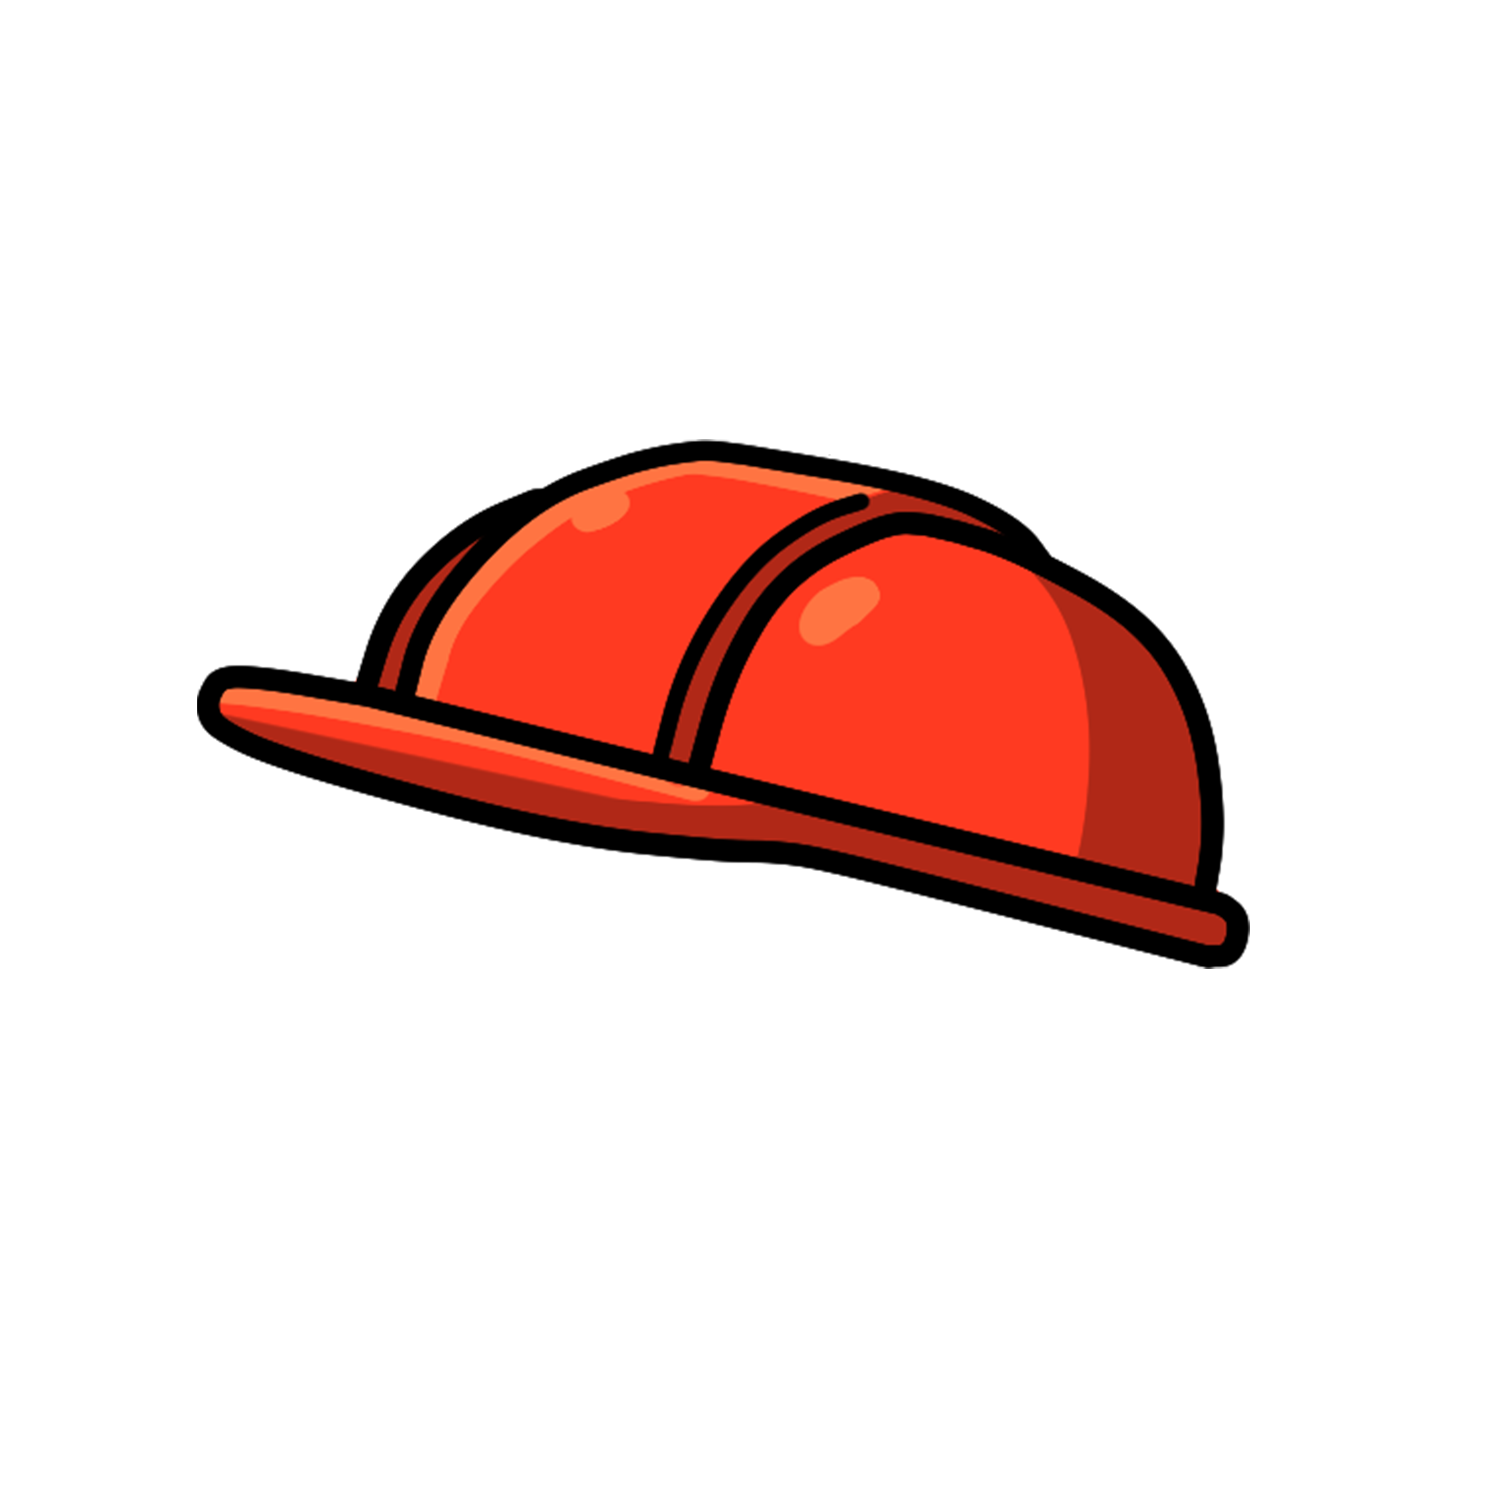
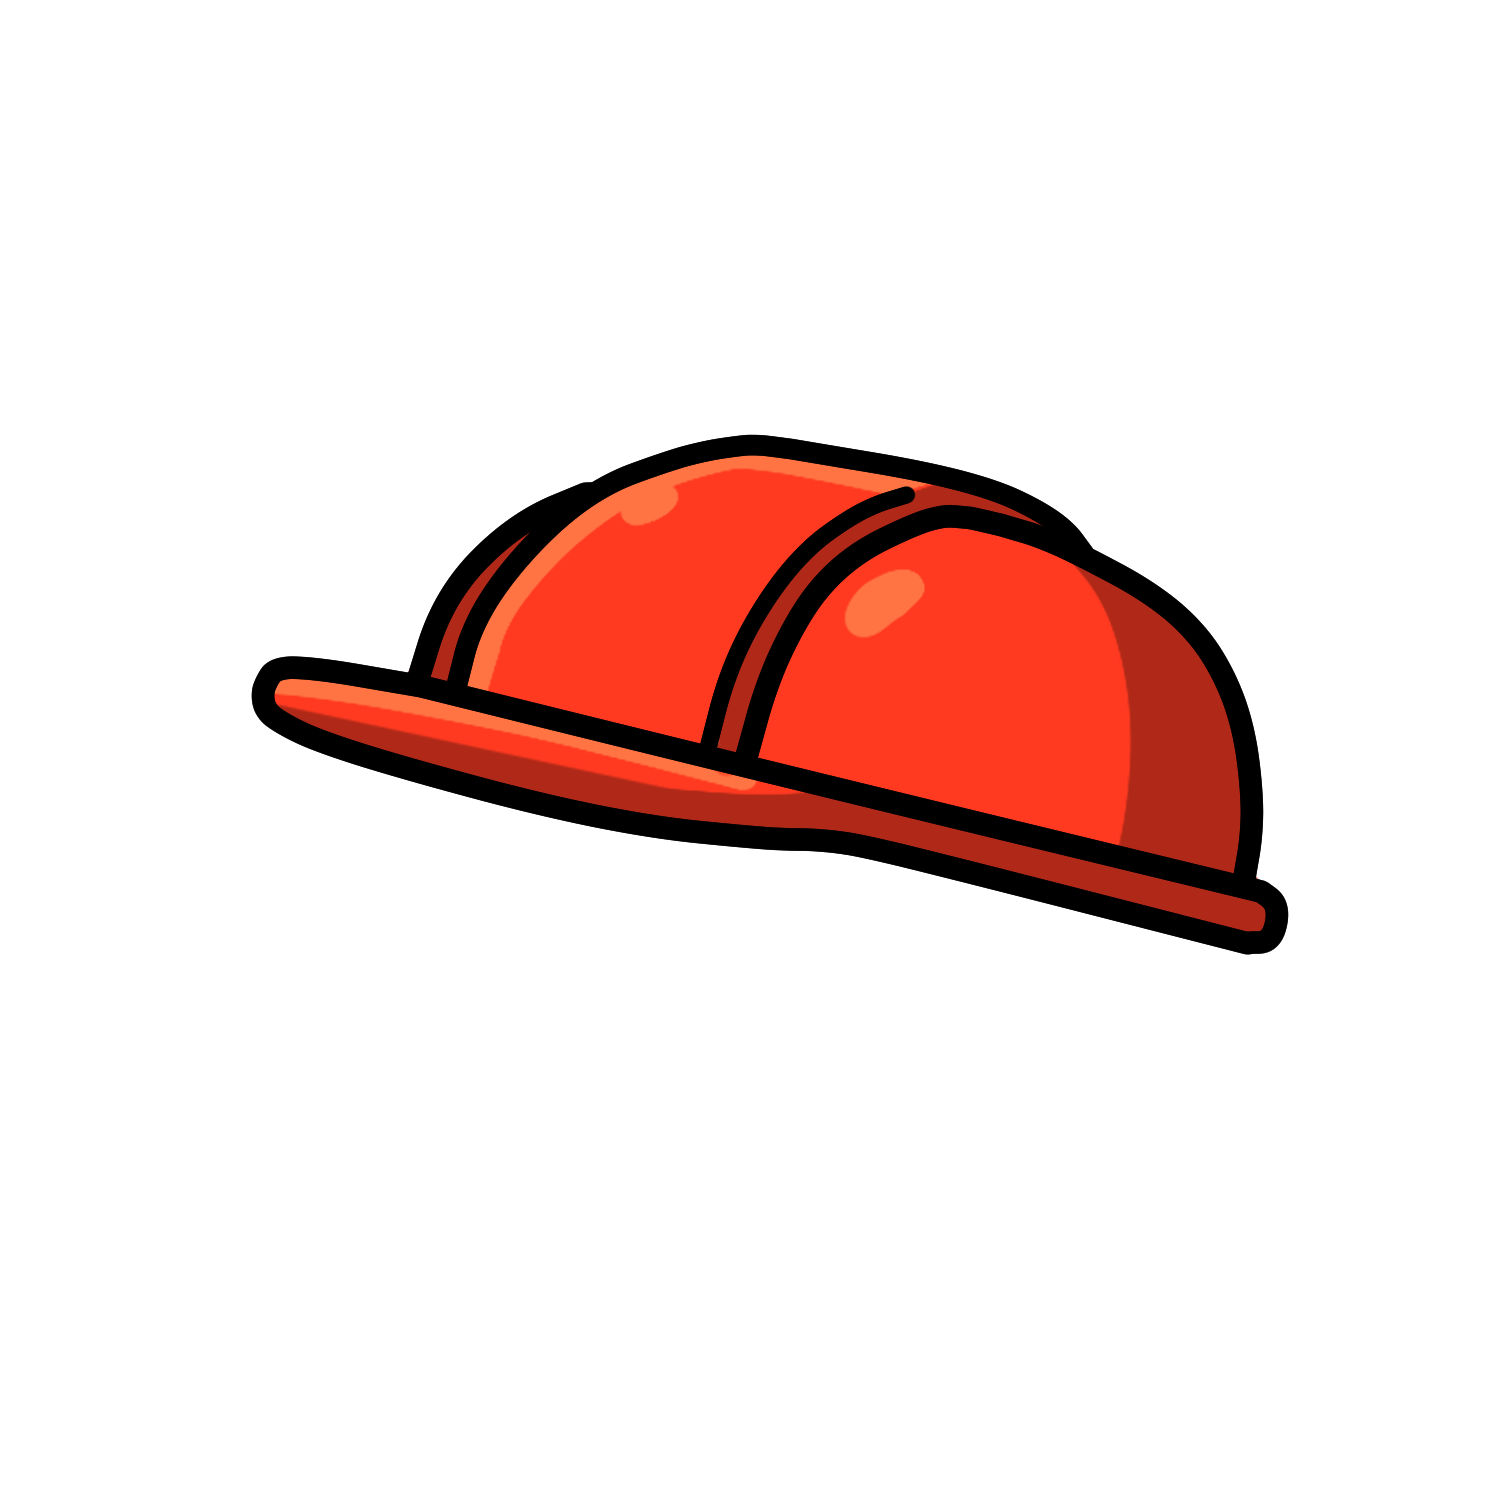
모자 및 바지 수정

Changed region(s): [[0.1227, 0.276, 0.8587, 0.644]]

diff --git a/kidult/src/event/HandlerEvent.js b/kidult/src/event/HandlerEvent.js
@@ -650,6 +650,10 @@ function handleBottomImg(e) {
       document.querySelector(".default-bottom").src = "";
       break;
     // LOW
+    case "/assets/image/bottom-Low/choker-pants-black-out.png":
+      document.querySelector(".default-bottom").src =
+        "/assets/image/bottom-Low/choker-pants-black-in.png";
+      break;
     case "/assets/image/bottom-Low/choker-pants-blue-out.png":
       document.querySelector(".default-bottom").src =
         "/assets/image/bottom-Low/choker-pants-blue-in.png";

diff --git a/kidult/src/Sotre.js b/kidult/src/Sotre.js
@@ -791,6 +791,10 @@ let bottomimg = createSlice({
     { src: "assets/image/none.png", name: "none" },
     // Low
     {
+      src: "assets/image/bottom-Low/choker-pants-black-out.png",
+      name: "choker-pants-black",
+    },
+    {
       src: "assets/image/bottom-Low/choker-pants-blue-out.png",
       name: "choker-pants-blue",
     },
